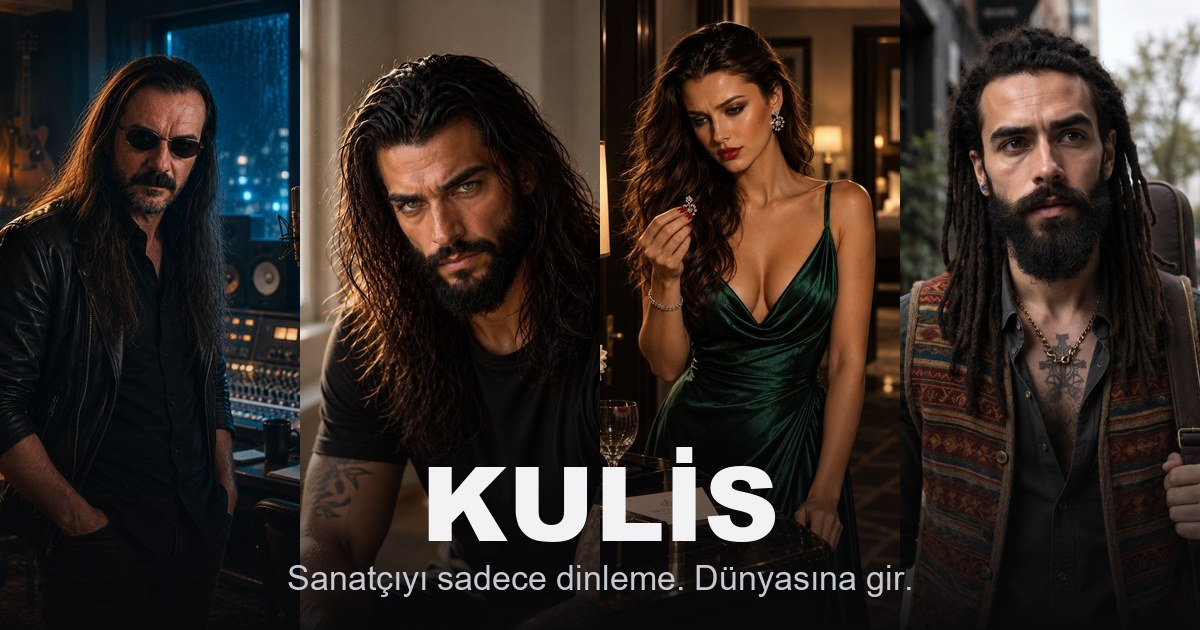
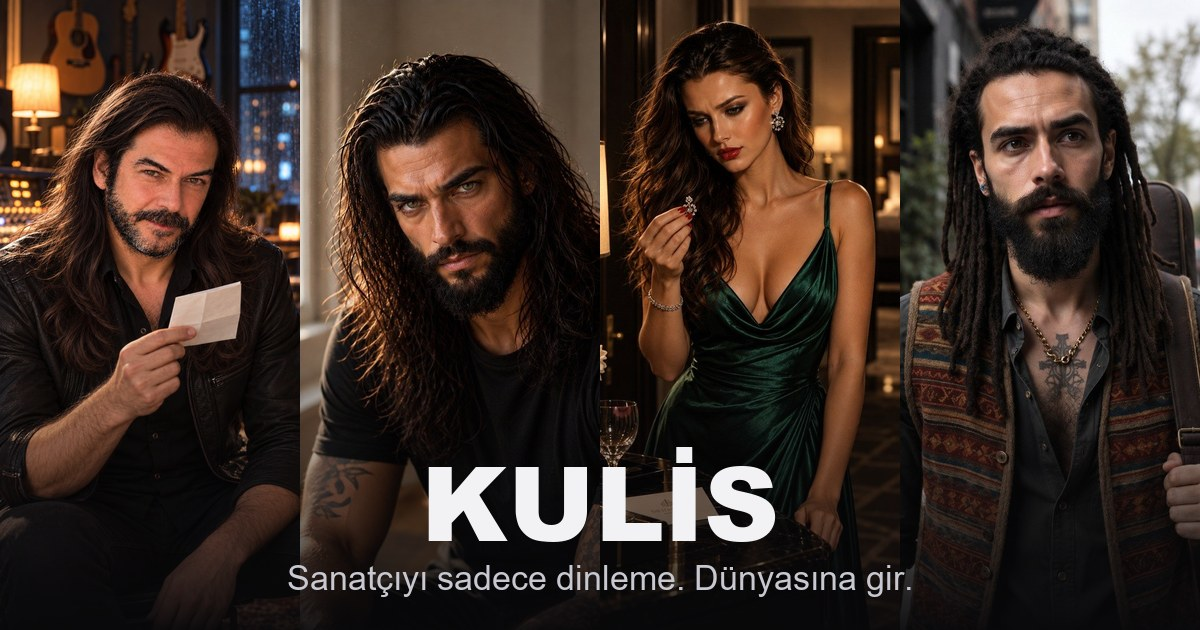
Kulis: Askin Ozturk dunyasi yeni karelerle (gozluksuz), satira bagli ilk 14 kare

Changed region(s): [[0.0, 0.0, 0.2775, 0.9651]]

diff --git a/kulis/dunya_askin.js b/kulis/dunya_askin.js
@@ -31,8 +31,8 @@
     cumle: L("The studio, the night before the concert.", "Konserden önceki gece, stüdyo."),
     bolumAdi: L("Chapter 1 — I Wrote You Into the Night", "Bölüm 1 — Geceye Yazdım Seni"),
     renk: "#d2a94e",
-    kart: "medya/askin_kart.jpg",
-    avatar: "medya/askin_av.jpg",
+    kart: "medya/askin_kart2.jpg",
+    avatar: "medya/askin_av2.jpg",
     baslangic: "giris",
     baslangicElmas: 1,
     kilitBedeli: 1,
@@ -60,9 +60,9 @@
     },
 
     kanallar: {
-      askin: { ad: L("Aşkın Öztürk", "Aşkın Öztürk"), avatar: "medya/askin_av.jpg", renk: "#d2a94e", durum: L("in the studio", "stüdyoda"), ilkMekan: "studyo",
-               havuz: { studyo: ["medya/askin_studyo1.jpg", "medya/askin_studyo2.jpg", "medya/askin_studyo3.jpg", "medya/askin_oturur.jpg", "medya/askin_oda1.jpg", "medya/askin_studyo4.jpg",
-                                 "medya/askin_oda2.jpg", "medya/askin_oda5.jpg", "medya/askin_oda3.jpg", "medya/askin_studyo5.jpg", "medya/askin_oda4.jpg", "medya/askin_oda6.jpg"],
+      askin: { ad: L("Aşkın Öztürk", "Aşkın Öztürk"), avatar: "medya/askin_av2.jpg", renk: "#d2a94e", durum: L("in the studio", "stüdyoda"), ilkMekan: "studyo",
+               havuz: { // 7 Eki 2026: Aşkın "gözlüksüz" kararı + ilk fotoğraf teslimi → havuz yeni karelerden (eski gözlüklü kareler çıkarıldı)
+                        studyo: ["medya/kare_AS_002.jpg", "medya/kare_AS_006.jpg", "medya/kare_AS_007.jpg", "medya/kare_AS_009.jpg", "medya/kare_AS_008.jpg", "medya/kare_AS_019.jpg", "medya/kare_AS_025.jpg", "medya/kare_AS_026.jpg", "medya/kare_AS_028.jpg", "medya/kare_AS_030.jpg", "medya/kare_AS_032.jpg", "medya/kare_AS_033.jpg", "medya/kare_AS_035.jpg", "medya/kare_AS_044.jpg"],
                         sahne: ["medya/askin_sahne.jpg", "medya/askin_soyluyor.jpg"],
                         sokak: ["medya/askin_yagmur.jpg", "medya/askin_iskele.jpg", "medya/askin_gidiyor.jpg"] } }
     },
@@ -125,7 +125,7 @@
         { t: "sahne",
           zaman: L("FRIDAY · 11:10 PM", "CUMA · 23:10"),
           baslik: L("The concert is tomorrow. Tonight the studio door is open to you.", "Yarın konser var. Bu gece stüdyonun kapısı sana açık."),
-          kadro: [{ k: "askin", f: "medya/askin_kart.jpg", m: L("Songwriter. The end of the set is still empty.", "Söz yazarı. Setin sonu hâlâ boş.") }],
+          kadro: [{ k: "askin", f: "medya/askin_kart2.jpg", m: L("Songwriter. The end of the set is still empty.", "Söz yazarı. Setin sonu hâlâ boş.") }],
           ozet: L("Your mission: find the missing lyric page and decide the closing song.", "Görevin: kayıp söz sayfasını bul ve kapanış şarkısına karar ver."),
           dugme: L("Enter the backstage", "Kulise gir") },
         { t: "sohbet", k: "askin" },
@@ -144,7 +144,7 @@
             de("Fine. But ask before you touch anything.", "Olur. Ama bir şeye dokunmadan önce sor.")] })
         ]),
         // ── 6 Eki eki: stüdyo turu ──
-        foto("askin_studyo3"),
+        { t: "dur" },                                           // (eski gözlüklü kare kalktı; satırlar kendi karesini gösteriyor)
         anlati("He walks you through the room. Every object in here has a job.", "Seni odada gezdiriyor. Buradaki her eşyanın bir işi var."),
         de("This desk hears everything first. Before the band, before the audience; if I'm honest, before me.",
            "Bu masa her şeyi ilk duyan yer. Gruptan önce, seyirciden önce; dürüst olayım, benden de önce."),
@@ -165,7 +165,7 @@
 
       // ───────────── açılış şarkısı
       acilis: [
-        foto("askin_studyo2"),
+        { t: "dur" },
         // ── 6 Eki eki ──
         anlati("The studio smells of coffee and old cables. One lamp is on, over the desk.", "Stüdyo kahve ve eski kablo kokuyor. Tek lamba yanıyor; masanın üstünde."),
         de("Sit there. That's where the bass player sits when he pretends not to have opinions.", "Şuraya otur. Basçı, fikri yokmuş gibi yaparken orada oturur."),
@@ -179,7 +179,7 @@
             secim([acNumara, acGorulme], "Which one opens the night?", "Geceyi hangisi açsın?")] })
         ], "Which one opens the night?", "Geceyi hangisi açsın?"),
         de("While that plays… a frame from last night's take. Nobody has seen it.", "O çalarken… dün geceki kayıttan bir kare. Kimse görmedi."),
-        { t: "kilitli", k: "askin", f: "medya/askin_mikrofon.jpg" },
+        { t: "kilitli", k: "askin", f: "medya/askin_mikrofon2.jpg" },
         // ── 6 Eki eki: setin ortası ──
         de("Tomorrow's room holds three hundred. A small room is harder than a big one; you can see who looked away.",
            "Yarınki salon üç yüz kişilik. Küçük salon büyükten zordur; kimin gözünü kaçırdığını görürsün."),
@@ -223,7 +223,7 @@
                                                 "Ceketini sandalyeden alıyor. İç cebinden katlanmış bir kâğıt kayıp düşüyor.")),
         eger({ yer: ["kilif", "masa"] }, de("…It was on me the whole time. Don't tell anyone.", "…Baştan beri üstümdeymiş. Kimseye söyleme.")),
         { t: "gorev", id: "sayfa" },
-        foto("askin_oturur"),
+        { t: "dur" },
         // ── 6 Eki eki ──
         anlati("He unfolds the sheet. Handwriting, crossed-out lines, a coffee ring in one corner.", "Kâğıdı açıyor. El yazısı, üstü çizilmiş satırlar, bir köşede kahve lekesi."),
         de("I cross out more than I keep. What stays on the page is what refused to leave.", "Tuttuğumdan fazlasını çizerim. Kâğıtta kalan, gitmeyi reddedendir."),

diff --git a/kulis/index.html b/kulis/index.html
@@ -10,20 +10,20 @@
 <meta property="og:url" content="https://www.aurasonicofficial.com/kulis/">
 <meta property="og:title" content="KULİS — Aura Sonic">
 <meta property="og:description" content="Sanatçıyı sadece dinleme. Dünyasına gir. Dört sanatçı, dört gece; seçimlerin geceyi değiştirir.">
-<meta property="og:image" content="https://www.aurasonicofficial.com/kulis/kapak.jpg?v=202610070009">
+<meta property="og:image" content="https://www.aurasonicofficial.com/kulis/kapak.jpg?v=202610070231">
 <meta property="og:image:width" content="1200">
 <meta property="og:image:height" content="630">
 <meta name="twitter:card" content="summary_large_image">
 <link rel="icon" href="/aura-logo-gold.png">
 <title>Kulis — Aura Sonic</title>
-<link rel="stylesheet" href="stil.css?v=202610070009">
+<link rel="stylesheet" href="stil.css?v=202610070231">
 </head>
 <body>
 <main id="uyg">
 
   <!-- açılış -->
   <section id="acilis" class="ekran">
-    <div class="acilis-gorsel"><img src="medya/askin_kart.jpg" alt=""></div>
+    <div class="acilis-gorsel"><img src="medya/askin_kart2.jpg" alt=""></div>
     <div class="acilis-ic">
       <p class="marka">AURA SONIC</p>
       <h1 id="oyunAdi"></h1>
@@ -104,13 +104,13 @@
 </main>
 
 <script>window.AYAR = { olcum: "https://panel.aurasonicofficial.com/kulis/say" };</script>
-<script src="cekirdek.js?v=202610070009"></script>
-<script src="kulis.js?v=202610070009"></script>
-<script src="dunya_askin.js?v=202610070009"></script>
-<script src="dunya_kael.js?v=202610070009"></script>
-<script src="dunya_maria.js?v=202610070009"></script>
-<script src="dunya_jaxen.js?v=202610070009"></script>
-<script src="kareler.js?v=202610070009"></script>
-<script src="motor.js?v=202610070009"></script>
+<script src="cekirdek.js?v=202610070231"></script>
+<script src="kulis.js?v=202610070231"></script>
+<script src="dunya_askin.js?v=202610070231"></script>
+<script src="dunya_kael.js?v=202610070231"></script>
+<script src="dunya_maria.js?v=202610070231"></script>
+<script src="dunya_jaxen.js?v=202610070231"></script>
+<script src="kareler.js?v=202610070231"></script>
+<script src="motor.js?v=202610070231"></script>
 </body>
 </html>

diff --git a/kulis/kareler.js b/kulis/kareler.js
@@ -1,4 +1,21 @@
 // KULİS — cümleye bağlı kareler (kare_al.py üretir; elle düzenlenmez).  dünya → cümle anahtarı → dosya
 (function (kok) {
-  kok.KULIS_KARELER = {};
+  kok.KULIS_KARELER = {
+ "askin": {
+  "1tzb6zu": "medya/kare_AS_002.jpg",
+  "177r1jk": "medya/kare_AS_006.jpg",
+  "xh39cs": "medya/kare_AS_007.jpg",
+  "w644ry": "medya/kare_AS_008.jpg",
+  "1mcfkhx": "medya/kare_AS_009.jpg",
+  "1lce7ez": "medya/kare_AS_019.jpg",
+  "1nylgi4": "medya/kare_AS_025.jpg",
+  "gop7ls": "medya/kare_AS_026.jpg",
+  "oexc2v": "medya/kare_AS_028.jpg",
+  "1bxou0h": "medya/kare_AS_030.jpg",
+  "18rhia4": "medya/kare_AS_032.jpg",
+  "iupf0k": "medya/kare_AS_033.jpg",
+  "gzd7hj": "medya/kare_AS_035.jpg",
+  "10s6qmf": "medya/kare_AS_044.jpg"
+ }
+};
 })(typeof window !== "undefined" ? window : this);

diff --git a/kulis/motor.js b/kulis/motor.js
@@ -260,7 +260,11 @@
     return (liste && a.m && liste[C.anahtar(a.m.en)]) || null;
   }
   function yeniKare(k, ozel) {                                // sanatçının her cümlesinde: cümlenin karesi ya da sıradaki poz + yeni kadraj
-    if (ozel) { D.tut = false; kadrajNo = 0; kilitKaldir(); arkaKoy(ozel); return bekle(260); }
+    if (ozel) {                                               // aynı kare zaten ekrandaysa kadraj değişir; değilse kare tam kadrajıyla gelir
+      D.tut = false;
+      if (D.arka === ozel) { kadraj(); return Promise.resolve(); }
+      kadrajNo = 0; kilitKaldir(); arkaKoy(ozel); return bekle(260);
+    }
     if (D.tut) { D.tut = false; kadraj(); return Promise.resolve(); }
     kadrajNo++;
     if (dondur(k)) return bekle(260);
